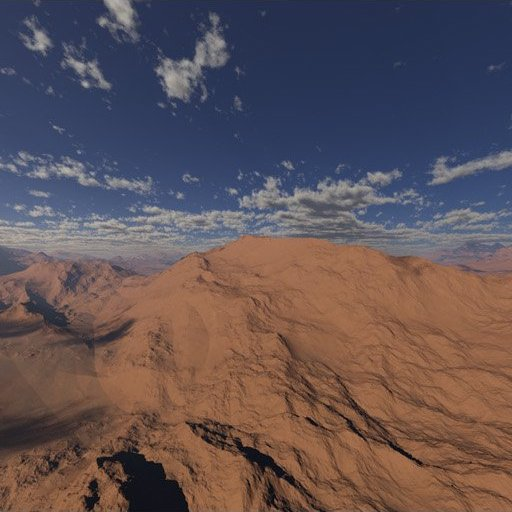
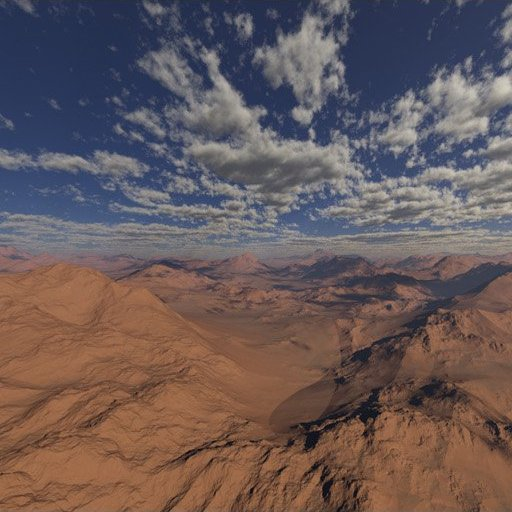
Add correct skybox textures.

diff --git a/src/Skybox.cpp b/src/Skybox.cpp
@@ -4,12 +4,23 @@
 #include <math.h>
 
 Skybox::Skybox():
-    _texture("./media/models/grass.jpg")
+    _textures({
+                {"./media/models/desert/desert_right.png"},
+                {"./media/models/desert/desert_left.png"},
+                {"./media/models/desert/desert_top.png"},
+                {"./media/models/desert/desert_bottom.png"},
+                {"./media/models/desert/desert_front.png"},
+                {"./media/models/desert/desert_back.png"},
+              })
 {}
 
 void Skybox::init()
 {
-    _texture.setTexture();
+    // init textures
+    for (Texture& tex: _textures) {
+        tex.setSkyboxTexture();
+    }
+
     double dis = 1000;
 
     _faces.resize(6);
@@ -19,42 +30,50 @@ void Skybox::init()
     _uvs.push_back({1.0,0.0});
     _uvs.push_back({1.0,1.0});
 
-    _faces[0].push_back(Point3d( dis, -dis, -dis));
-    _faces[0].push_back(Point3d( dis,  dis, -dis));
+    // right
     _faces[0].push_back(Point3d( dis, -dis,  dis));
     _faces[0].push_back(Point3d( dis,  dis,  dis));
+    _faces[0].push_back(Point3d( dis, -dis, -dis));
+    _faces[0].push_back(Point3d( dis,  dis, -dis));
 
-    _faces[1].push_back(Point3d(-dis,  dis, -dis));
+    // left
     _faces[1].push_back(Point3d(-dis, -dis, -dis));
-    _faces[1].push_back(Point3d(-dis,  dis,  dis));
+    _faces[1].push_back(Point3d(-dis,  dis, -dis));
     _faces[1].push_back(Point3d(-dis, -dis,  dis));
+    _faces[1].push_back(Point3d(-dis,  dis,  dis));
 
-    _faces[2].push_back(Point3d( dis,  dis, -dis));
+    // top
+    _faces[2].push_back(Point3d(-dis,  dis,  dis));
     _faces[2].push_back(Point3d(-dis,  dis, -dis));
     _faces[2].push_back(Point3d( dis,  dis,  dis));
-    _faces[2].push_back(Point3d(-dis,  dis,  dis));
+    _faces[2].push_back(Point3d( dis,  dis, -dis));
 
+
+    // bottom
     _faces[3].push_back(Point3d(-dis, -dis, -dis));
     _faces[3].push_back(Point3d( dis, -dis, -dis));
     _faces[3].push_back(Point3d(-dis, -dis,  dis));
     _faces[3].push_back(Point3d( dis, -dis,  dis));
 
+    // front
     _faces[4].push_back(Point3d(-dis, -dis,  dis));
-    _faces[4].push_back(Point3d( dis, -dis,  dis));
     _faces[4].push_back(Point3d(-dis,  dis,  dis));
+    _faces[4].push_back(Point3d( dis, -dis,  dis));
     _faces[4].push_back(Point3d( dis,  dis,  dis));
 
-    _faces[5].push_back(Point3d(-dis, -dis, -dis));
+    // back
     _faces[5].push_back(Point3d( dis, -dis, -dis));
-    _faces[5].push_back(Point3d(-dis,  dis, -dis));
     _faces[5].push_back(Point3d( dis,  dis, -dis));
+    _faces[5].push_back(Point3d(-dis, -dis, -dis));
+    _faces[5].push_back(Point3d(-dis,  dis, -dis));
 }
 
 void Skybox::draw()
 {
     for (int i = 0; i < _faces.size(); ++i) {
         PointArray & face = _faces[i];
-        _texture.bind();
+        Texture& tex = _textures[i];
+        tex.bind();
         glBegin(GL_TRIANGLE_STRIP);
         for (int j = 0; j < face.size(); ++j) {
             const Point3d & p = face[j];
@@ -63,6 +82,6 @@ void Skybox::draw()
             glVertex3d(p.x(), p.y(), p.z());
         }
         glEnd();
-        _texture.unbind();
+        tex.unbind();
     }
 }

diff --git a/src/texture.hpp b/src/texture.hpp
@@ -65,6 +65,39 @@ public:
         loaded = true;
     }
 
+    void setSkyboxTexture()
+    {
+        QImageReader reader(path.c_str());
+        QImage img;
+
+        const bool read = reader.read(&img);
+
+        if(!read) {
+            std::cout << "Failed to read: " << path.c_str() << " with message:" << reader.errorString().toStdString().c_str() << "; " << std::endl;
+            assert(read);
+            return;
+        }
+
+        assert(img.width() > 0.0);
+
+        img = QGLWidget::convertToGLFormat(img);
+
+        glGenTextures(1, &name);
+        glBindTexture(GL_TEXTURE_2D, name);
+
+        glGenerateMipmap(GL_TEXTURE_2D);
+
+        glTexParameteri(GL_TEXTURE_2D, GL_TEXTURE_MIN_FILTER, GL_LINEAR);
+        glTexParameteri(GL_TEXTURE_2D, GL_TEXTURE_MAG_FILTER, GL_LINEAR);
+
+        glTexParameteri(GL_TEXTURE_2D, GL_TEXTURE_WRAP_S, GL_CLAMP_TO_EDGE);
+        glTexParameteri(GL_TEXTURE_2D, GL_TEXTURE_WRAP_T, GL_CLAMP_TO_EDGE);
+
+        glTexImage2D(GL_TEXTURE_2D, 0, GL_RGBA, img.width(), img.height(), 0, GL_RGBA, GL_UNSIGNED_BYTE, img.bits());
+
+        loaded = true;
+    }
+
     const std::string & get_path() { return path; }
 
 private:

diff --git a/src/CCanvas.cpp b/src/CCanvas.cpp
@@ -237,7 +237,7 @@ void CCanvas::paintGL()
     glLightfv(GL_LIGHT0, GL_DIFFUSE,  lightDiff);
 
     // You can always change the light position here if you want
-    GLfloat lightpos[] = {10.0f, -1000.0f, 10.0f, 0.0f};
+    GLfloat lightpos[] = {100.0f, 100.0f, 100.0f, 0.0f};
     glLightfv(GL_LIGHT0, GL_POSITION, lightpos);
 
     // Terrain

diff --git a/src/Skybox.h b/src/Skybox.h
@@ -21,7 +21,7 @@ private:
     std::vector<Point3d>    _normals;
     std::vector<Point2d>    _uvs;
 
-    Texture _texture;
+    std::vector<Texture> _textures;
 
 };
 
